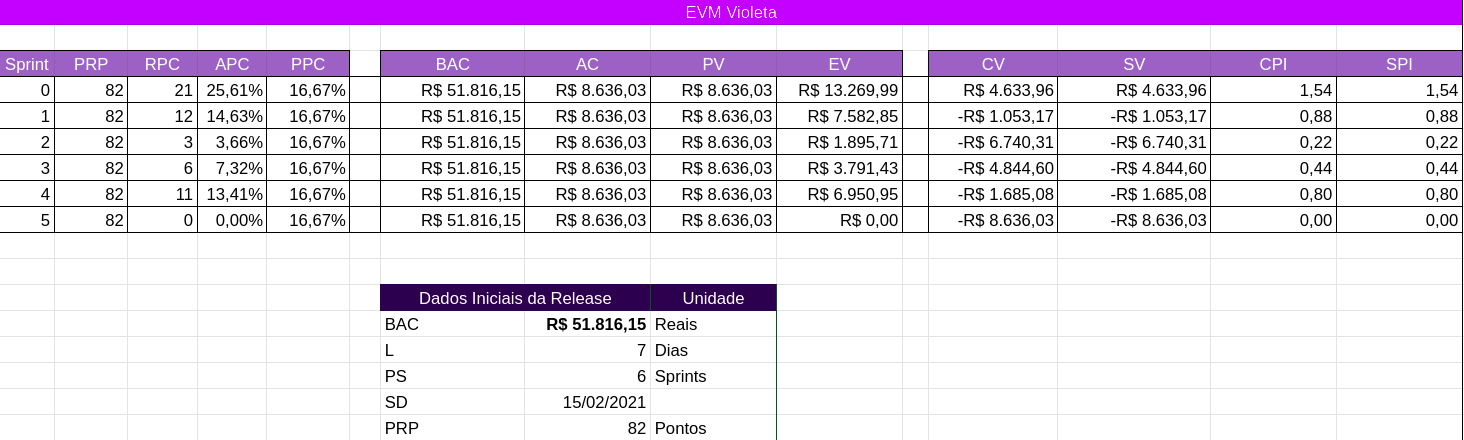
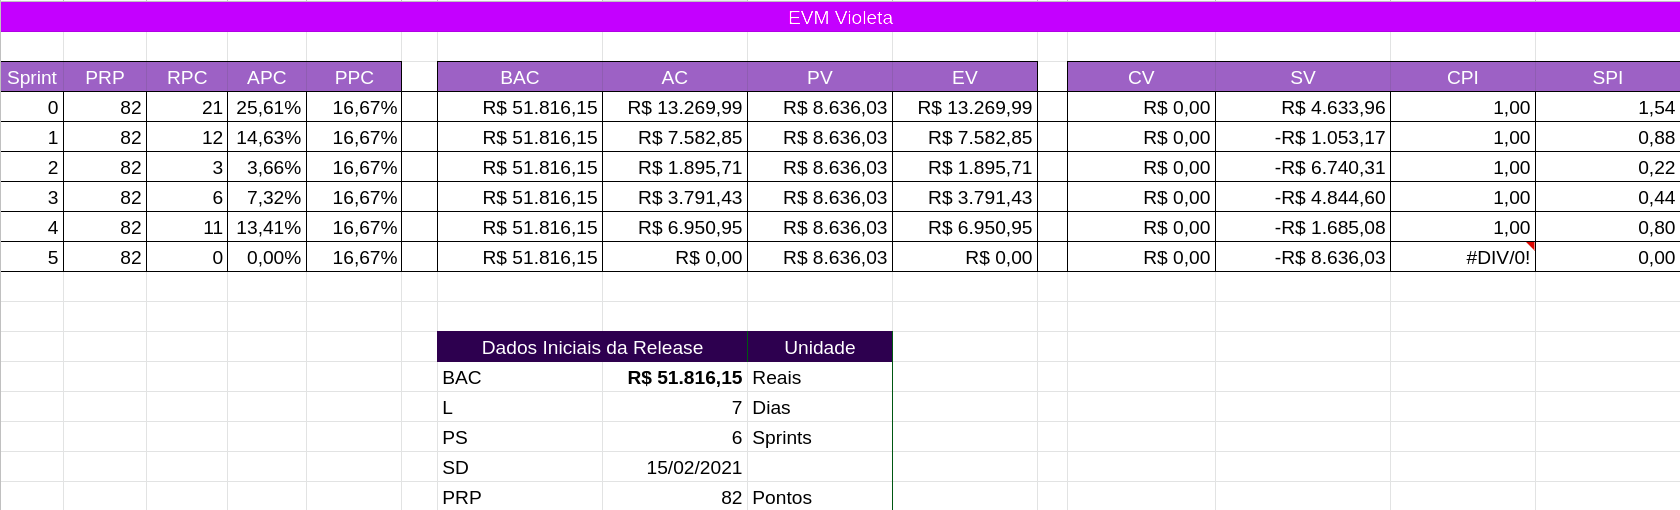
Adicionado iframe de tabela do evm

diff --git a/docs/Gerencia/documentacao/agile-emv.md b/docs/Gerencia/documentacao/agile-emv.md
@@ -113,3 +113,9 @@ Abaixo segue a tabela de sigla necessárias para entender todos os cálculos e c
 | CPI = EV / AC | indice de performance de custo |
 | SPI = EV / PV |  indice de performance do cronograma|
 
+<br/>
+<br/>
+
+Documento completo abaixo.
+
+<iframe weidth="200%" height="500" src="https://docs.google.com/spreadsheets/d/e/2PACX-1vQwAgC96ionjjLl9JorY3oZZ9QpzvFnSY70JgN7bdcVyYo7K-BWRwhoL-nkE7IFSm21dTafwCCKLCSa/pubhtml?widget=true&amp;headers=false"></iframe>
